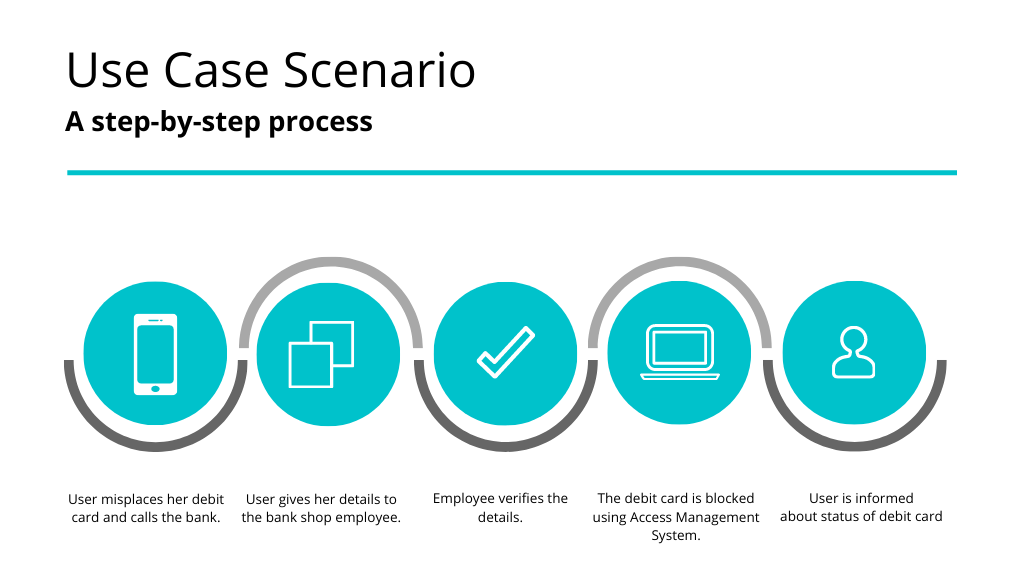
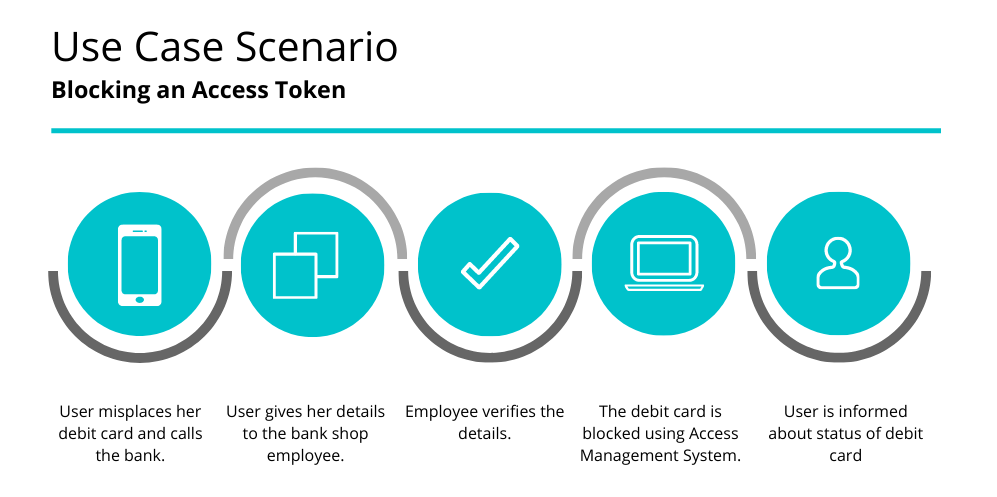
refactoring

Changed region(s): [[0.0311, 0.0604, 0.9639, 0.9658]]

diff --git a/src/components/AccessManagement.vue b/src/components/AccessManagement.vue
@@ -17,8 +17,7 @@
     <b-modal id="modal-xl" size="xl" v-model='show' >
         <h2 class="desc mt-3"><u class="under">Overview</u></h2>
         <p class="desc ml-5 mr-5" style="font-size:19px"> Access Management System is an application that manages the lifecycle of access tokens. 
-          An Access token is a means of access that a customer has with the bank. It could be a
-          Debit Card, Mobile Device or a PIN5. The application falls at heart of Identity and Access Management of the bank.</p>
+          An Access token is a means of access through which a customer can access the bank. It could be a Debit Card, Mobile Device or a PIN5. This application falls at heart of Identity and Access Management domain of the bank. This application has the highest CIA rating.</p>
 
         <b-img center :src="require('../assets/AMS/concept.png')" class="img-fluid" width="800px" height="400px"> </b-img>
    
@@ -30,10 +29,10 @@
        </b-tr>
        <b-tr>
          <b-td class="text-right">Frontend Developer</b-td>
-         <b-td  class="text-left">Vue Bootstrap</b-td>
+         <b-td  class="text-left">VueJS</b-td>
        </b-tr>
          <b-tr>
-         <b-td class="text-right">UX designer</b-td>
+         <b-td class="text-right">UI Designer</b-td>
          <b-td  class="text-left">Figma</b-td>
        </b-tr>
       <b-tr>
@@ -47,7 +46,7 @@
      <h2 class="desc"><u class="under">Research</u></h2>
         <p class="desc ml-5 mr-5" style="font-size:19px">
           I took a survey and held semi-structured interviews with the users of the application to understand their expectations from the application. The survey was created in a way
-          to understand how frequently the application will be used and what all features must be covered in the solution.
+          to understand how frequently the application will be used and what all features must be covered in the solution along with their priorities.
         </p>
 
        <p class="desc ml-5 mr-5" style="font-size:19px">
@@ -65,19 +64,29 @@
   <br><br><br>
        <p class="desc ml-5 mr-5" style="font-size:19px">
        In order to explain one of the features, here is a use-case scenario:   
-      </p>
+      
  <b-img center :src="require('../assets/AMS/useCase.png')" class="img-fluid" width="800px" height="440px"> </b-img>
-  <br><br><br>
+ </p> <br><br><br>
    <p class="desc ml-5 mr-5" style="font-size:19px">
           Based on my research, I was able to define our target state below:
         <b-img center :src="require('../assets/AMS/targetState.png')" class="img-fluid" width="450px" height="420px"> </b-img>
+        <ul class="mt-1">
+           <li>Seamless Experience: The ability to create a unified yet customizable user experience regardless of what the user is trying to achieve.</li>
+           <li>Traceable and accountability: Any action performed that changes the status of the access token has be traceable and logged.</li>
+           <li>Abstraction: The ability to easily plug in and out authentication solutions from various vendors for authentication without the need to do any integration work with each of the different applications and systems. </li>
+           <li>Orchestration: The ability to digest context from various sources and take run-time decisions based on that context in order to influence the user journey in various applications. Context could be business related (e.g. allowed services), user-related (e.g. user preferences), security-related (e.g. trust level), or regulatory related (e.g. multi-factor authentication requirements). </li>
+           <li>Standardization: The design, develpment and deployment processes should adhere to the standards of the bank.</li>
+         </ul>
         </p>
    <br><br>
    <h2 class="desc"><u class="under">Design & Development</u></h2>
         <p class="desc ml-5 mr-5" style="font-size:19px">
           The design mockups were created using the design system of the bank on Figma. Screens were developed in VueJS framework along with Vue Bootstrap
           components.<br> Continuous Integration and Continuous Deployment were achieved using Azure DevOps pipelines.
-          Due to automated delivery the time-to-market was reduced by 75%.
+          Due to automated delivery the time-to-market was reduced by 75%.<br>
+          Code quality tools were integrated within the DevOps pipeline to deliver secure code that is adhering to the coding standards.<br>
+          ServiceNow was used for core IT processes such as Incident, Problem, Change and Call management. The process was automated and integrated in the pipeline as well. 
+
         </p>
      <b-img center :src="require('../assets/AMS/screens.png')" class="img-fluid" width="900px" height="500px"> </b-img>
      <br><br>
@@ -108,7 +117,7 @@
       </template>
       </b-modal> 
 <template #footer >
-      <span class="text-muted" style="font-family:'Montserrat-Regular'; font-size:15px;"> How to manage access tools of a customer of the bank?  </span>
+      <span class="text-muted" style="font-family:'Montserrat-Regular'; font-size:14px;"> How to manage means of access a person has with the bank?  </span>
         <small class="text-muted">Development | Design | Automation</small>
       </template>
   </b-card>

diff --git a/src/App.vue b/src/App.vue
@@ -25,8 +25,8 @@
         <b-col class="name mb-3"
           >Hi! Yes, you've reached Niharika!<br />
           <span class="desc">
-            A high-spirited and joyful <span style="color: #00c2cb">Frontend Developer </span>with a deep interest in
-            <span style="color: #00c2cb">UX</span> working with a
+            A high-spirited and joyful <span style="color: #00c2cb">Developer </span>with a deep interest in
+            <span style="color: #00c2cb">User Experience</span> working with a
             leading bank based out of
             <span style="color: #00c2cb">Netherlands</span>.</span>
         </b-col>
@@ -78,12 +78,12 @@
        
        </div>
         <div class="h2 mb-3">
-    <b-icon icon="linkedin" variant="dark"></b-icon>
-     <b-icon icon="facebook" variant="dark" class="ml-3 mr-3"></b-icon>
-    <b-icon icon="instagram" variant="dark"></b-icon>
+    <b-icon icon="linkedin" variant="dark" cursor="pointer" v-on:click="openPage('linkedin')"></b-icon>
+     <b-icon icon="facebook" variant="dark" cursor="pointer" class="ml-3 mr-3" v-on:click="openPage('facebook')"></b-icon>
+    <b-icon icon="instagram" variant="dark" cursor="pointer" v-on:click="openPage('instagram')"></b-icon>
   </div>
    <p style="font-size:15px;font-family:'Montserrat-Regular';">
-        <i> Designed and developed with <b-icon icon="heart-fill" variant="dark"></b-icon> and lots of it.</i>
+        <i> Designed and developed with <b-icon icon="heart-fill" variant="dark"></b-icon> and lots of it by Niharika.</i>
         </p>
   </div>
 </template>
@@ -101,7 +101,19 @@ import Photography from "./components/Photography.vue";
 import Designs from "./components/Designs.vue";
 export default {
   components: { AccessManagement, AccessContract, Mirus, OSS, Photography, Designs },
- 
+  methods: {
+    openPage(app) {
+      if(app=='linkedin'){
+        window.location.href = "https://www.linkedin.com/in/niharika-sharma-0b5822b6/";
+      }
+      else if(app=='facebook'){
+        window.location.href = "https://www.facebook.com/niharika.sharma.5095";
+      }
+      else{
+         window.location.href = "https://www.instagram.com/niharikasharma07/";
+      }
+    },
+  },
  
 };
 </script>
